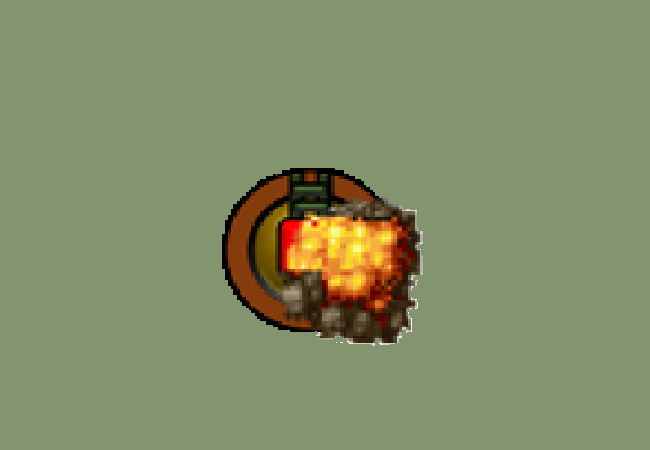
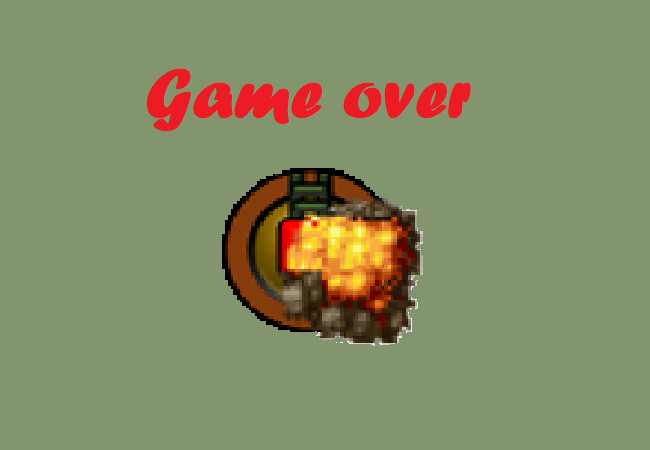
du phong

Changed region(s): [[0.2154, 0.1556, 0.7385, 0.3111]]

diff --git a/TankGame.cpp b/TankGame.cpp
@@ -7,7 +7,7 @@
 
 #define TOTAL_LEVEL_GAME 2
 
-MapGame map;
+MapGame* map;
 TankMain tank(100, 100);
 TankBossList bossList;
 ItemList itemList;
@@ -20,6 +20,7 @@ BasicObj shopBackground;
 BasicObj aboutBackground;
 BasicObj winBackground;
 BasicObj pauseBackground;
+BasicObj gameOverBackground;
 BasicObj warning;
 
 BasicObj textMenu[4];
@@ -28,6 +29,8 @@ BasicObj textHome[4];
 BasicObj textGunHome[4];
 BasicObj textAbout;
 BasicObj textPause[2];
+BasicObj textWin;
+BasicObj textGameOver;
 
 BasicObj frameHome[11];
 BasicObj frameGunHome[3];
@@ -117,12 +120,12 @@ void loadHomeMenu() {
 	textMainHome[0].loadText(bigFont, "Play", _color, renderer);
 	textMainHome[1].loadText(bigFont, "Shop", _color, renderer);
 	textMainHome[2].loadText(bigFont, "Back", _color, renderer);
-	textMainHome[3].loadText(bigFont, "Save Game", _color, renderer);
+	textMainHome[3].loadText(bigFont, "Save", _color, renderer);
 
 	textMainHome[0].setXY(490, cameraHeight - textMainHome[0].getH());
 	textMainHome[1].setXY(220, cameraHeight - textMainHome[1].getH());
 	textMainHome[2].setXY(20, cameraHeight - textMainHome[2].getH());
-	textMainHome[3].setXY(460, 320);
+	textMainHome[3].setXY(480, 310);
 
 	frameHome[0].loadImg("./image/frame_money.png", renderer);//tien
 	for (int i = 1; i <= 3; i++)
@@ -210,7 +213,13 @@ int handleMenuPause() {
 		while (SDL_PollEvent(&e) != 0) {
 			if (e.type == SDL_QUIT)
 				out = true;
-			if (e.type == SDL_MOUSEMOTION || e.type == SDL_MOUSEBUTTONDOWN || e.type == SDL_MOUSEBUTTONUP) {
+			else if (e.type == SDL_KEYUP) {
+				if (e.key.keysym.sym == SDLK_ESCAPE) {
+					SDL_ShowCursor(SDL_DISABLE);
+					return 0;
+				}
+			}
+			else if (e.type == SDL_MOUSEMOTION || e.type == SDL_MOUSEBUTTONDOWN || e.type == SDL_MOUSEBUTTONUP) {
 				int _x = 0, _y = 0;
 				SDL_GetMouseState(&_x, &_y); // lấy tọa độ chuột
 				for (int i = 0; i < 2; i++) {
@@ -718,7 +727,7 @@ void handleMenuHome() {
 		textGunHome[2].render(renderer, cameraWidth - textGunHome[2].getW(), 160, NULL, 0);
 		textGunHome[3].render(renderer, cameraWidth - textGunHome[3].getW(), 250, NULL, 0);
 
-		for (int i = 0; i < 3; i++)
+		for (int i = 0; i < 4; i++)
 			textMainHome[i].render(renderer, textMainHome[i].getX(), textMainHome[i].getY(), NULL, 0);
 		SDL_RenderPresent(renderer);
 		}
@@ -729,13 +738,95 @@ bool load() {
 	if (!tank.loadImg(renderer)) {
 		return false;
 	}
-	if (!map.loadMap("./image/mapimg5.png", "./general/mapgame.map", renderer)) {
-		return false;
-	}
+	//if (!map.loadMap("./image/mapimg5.png", "./general/mapgame.map", renderer)) {
+	//	return false;
+	//}
 	if (!winBackground.loadImg("./image/youwin.png", renderer)) {
 		return false;
 	}
+	textWin.loadText(bigFont, "BACK", { 255, 255, 255 }, renderer);
+	textWin.setXY(525, 395);
+	if (!gameOverBackground.loadImg("./image/background_destroy.png", renderer)) {
+		return false;
+	}
+	textGameOver.loadText(bigFont, "BACK", { 255, 255, 255 }, renderer);
+	textGameOver.setXY(525, 395);
+
 	return true;
+}
+
+void handleGameOverMenu() {
+	bool out = false;
+	bool flagChuck = false;
+	SDL_ShowCursor(SDL_ENABLE);
+	while (!out) {
+		SDL_Event e;
+		while (SDL_PollEvent(&e) != 0) {
+			if (e.type == SDL_QUIT)
+				out = true;
+			if (e.type == SDL_MOUSEMOTION || e.type == SDL_MOUSEBUTTONDOWN || e.type == SDL_MOUSEBUTTONUP) {
+				int _x = 0, _y = 0;
+				SDL_GetMouseState(&_x, &_y); // lấy tọa độ chuột
+				if (check::checkInsideRect(_x, _y, textGameOver.getBox())) {
+					if (!flagChuck) {
+						Mix_PlayChannel(-1, musicChunk[SOUND_MOUSE_INSIDE], 0);
+						flagChuck = true;
+					}
+					textGameOver.setColor(255, 0, 0);
+					if (e.type == SDL_MOUSEBUTTONDOWN) {
+						return;
+					}
+				}
+				else {
+					textGameOver.setColor(255, 255, 255);
+					flagChuck = false;
+				}
+			}
+		}
+		SDL_RenderClear(renderer);
+		SDL_SetRenderDrawColor(renderer, 0, 100, 100, 0);
+		gameOverBackground.render(renderer, 0, 0, NULL, 0);
+		textGameOver.render(renderer, textGameOver.getX(), textGameOver.getY(), NULL, 0);
+
+		SDL_RenderPresent(renderer);
+	}
+}
+
+void handleWinMenu() {
+	bool out = false;
+	bool flagChuck = false;
+	SDL_ShowCursor(SDL_ENABLE);
+	while (!out) {
+		SDL_Event e;
+		while (SDL_PollEvent(&e) != 0) {
+			if (e.type == SDL_QUIT)
+				out = true;
+			if (e.type == SDL_MOUSEMOTION || e.type == SDL_MOUSEBUTTONDOWN || e.type == SDL_MOUSEBUTTONUP) {
+				int _x = 0, _y = 0;
+				SDL_GetMouseState(&_x, &_y); // lấy tọa độ chuột
+				if (check::checkInsideRect(_x, _y, textWin.getBox())) {
+					if (!flagChuck) {
+						Mix_PlayChannel(-1, musicChunk[SOUND_MOUSE_INSIDE], 0);
+						flagChuck = true;
+					}
+					textWin.setColor(255, 0, 0);
+					if (e.type == SDL_MOUSEBUTTONDOWN) {
+						return;
+					}
+				}
+				else {
+					textWin.setColor(255, 255, 255);
+					flagChuck = false;
+				}
+			}
+		}
+		SDL_RenderClear(renderer);
+		SDL_SetRenderDrawColor(renderer, 0, 100, 100, 0);
+		winBackground.render(renderer, 0, 0, NULL, 0);
+		textWin.render(renderer, textWin.getX(), textWin.getY(), NULL, 0);
+
+		SDL_RenderPresent(renderer);
+	}
 }
 
 void loadDataTank(bool _isNewGame) {
@@ -799,11 +890,22 @@ void game() {
 	bool isAllowCreateTankBossList = false; // cho phép tạo bost list?
 	bool isYouWin = false;
 
+	MapGame* _map = new MapGame();
+	_map->loadMap("./image/mapimg5.png", "./general/mapgame.map", renderer);
+	map = _map;
+	delete _map;
+
 	loadPauseMenu();
 	if (load()) {
+
+		tank.assign();
+		bossList.assign();
+
+
 		SDL_Rect camera = { 0, 0, cameraWidth, cameraHeight }; // khai báo camera
 		SDL_ShowCursor(SDL_DISABLE); // ẩn con trỏ chuột
 		bossList.createListBoss(map, tank.getTankCircle(), level * 1, level < 5 ? level : 4, renderer, level * 50, level * 2, { 0, 0, 0 }, { 0, 0, 0 });
+		
 		while (!out) {
 			while (SDL_PollEvent(&event) != 0) { // bắt các sự kiện
 				if (event.type == SDL_QUIT) {
@@ -812,7 +914,7 @@ void game() {
 				if (isAllowTankMainMove)
 					tank.handleEvents(&event, camera);
 
-				if (event.type == SDL_KEYDOWN) {
+				if (event.type == SDL_KEYUP) {
 					if (event.key.keysym.sym == SDLK_ESCAPE) {
 						if (handleMenuPause() == 1) { // về home
 							Mix_HaltMusic();
@@ -968,14 +1070,14 @@ void game() {
 				tank.render(renderer, camera);
 				bossList.renderList(renderer, camera, smallFont);
 				tank.renderTam(renderer);
-				if (tank.getIsDestroy()) { // còn hiện game over nữa
-					Mix_HaltMusic();
-					SDL_ShowCursor(SDL_ENABLE); // hiện con trỏ chuột
+				if (tank.getIsDestroy()) {
+					handleGameOverMenu();
 					return;
 				}
 			}
-			else { // chưa đâu đâu nha
-				winBackground.render(renderer, 0, 0, NULL, 0);
+			else {
+				handleWinMenu();
+				return;
 			}
 
 			SDL_RenderPresent(renderer);

diff --git a/TankMain.cpp b/TankMain.cpp
@@ -306,6 +306,24 @@ bool TankMain::moveAutomatic(SDL_Renderer* _renderer, int _x, int _y) {
 	return false;
 }
 
+void TankMain::assign() {
+	healthCurrent = totalHealth;
+	spX = spY = 0;
+	rotation = 0;
+	box.x = box.y = 100;
+	setTankCircle();
+	isMouseDown = isMouseUp = false;
+	saveTimeShoot = 0;
+	bulletType = slotGun1Type;
+	bloodBar = { 0, 0, 60, 10, 100 };
+	isSlowed = false;
+	saveTimeIsSlowed = 0;
+	isMinusHealth = false;
+	isPlusHealth = false;
+	damgeReceived = 0;
+	isDestroy = false;
+}
+
 void TankMain::renderTam(SDL_Renderer* _renderer) {
 	int mouseX = 0, mouseY = 0;
 	SDL_GetMouseState(&mouseX, &mouseY);

diff --git a/TankBoss.h b/TankBoss.h
@@ -114,6 +114,7 @@ public:
 	void renderBulletOfTankList(SDL_Renderer* _renderer, SDL_Rect _camera);
 	int getQualityBoss() { return bossList.size(); };
 	void clearList();
+	void assign() { bossList.assign(0, NULL); }
 };
 
 #endif // !TANKBOSSES_H_

diff --git a/Bullet.h b/Bullet.h
@@ -27,7 +27,7 @@ public:
 	enum DameBullet
 	{
 		nomalDamge = 10,
-		fireDamge = 20,
+		fireDamge = 2000,
 		fireBossDamge = 50,
 		ballBossDamge = 40,
 		ballNormalBossDamge = 40,

diff --git a/MapGame.cpp b/MapGame.cpp
@@ -85,3 +85,9 @@ void MapGame::reload() {
 		}
 	}
 }
+
+void MapGame::assign() {
+	tiles.assign(0, NULL);
+	loadMap();
+
+}

diff --git a/TankMain.h b/TankMain.h
@@ -144,7 +144,7 @@ public:
 
 	bool getIsDestroy() { return isDestroy; };
 
-
+	void assign();
 };
 
 #endif // !TANKMAIN_H_
